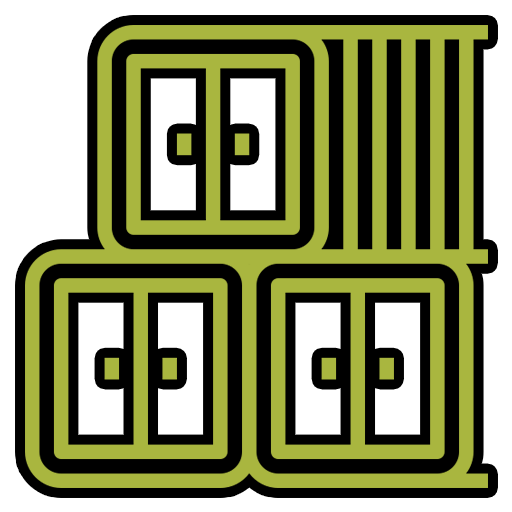
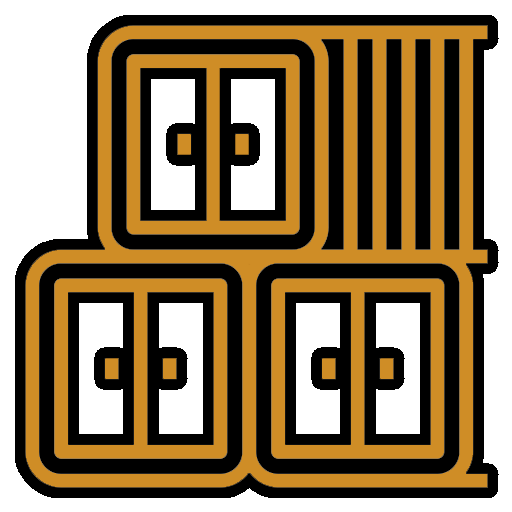
08-07-2023

diff --git a/css/home.css b/css/home.css
@@ -283,7 +283,7 @@ a {
 }
 
 .nav-link:hover {
-    color: #a9b63f !important;
+    color: #ffb03b !important;
 }
 
 .page-button {
@@ -293,7 +293,7 @@ a {
     padding: 10px 18px;
     border-radius: 56px;
     color: #fff;
-    background-color: #a9b63f;
+    background-color: #ffb03b;
     cursor: pointer;
     transition: 0.3s;
 }
@@ -515,7 +515,7 @@ a {
 .left_separator, .right_separator {
     width: 0;
     height: 1px;
-    background-color: #757575;
+    background-color: #ffb03b;
     transition: width 3s;
     transition-timing-function: ease;
 }
@@ -545,7 +545,7 @@ a {
 }
 
 #products {
-    background-image: url(../img/home-bg-img-2.jpg);
+    background-image: url(../img/home-bg-img-4.jpg);
     background-repeat: no-repeat;
     background-size: cover;
     background-attachment: fixed;
@@ -553,7 +553,7 @@ a {
 
 #achievement {
     width: 100%;
-    background-image: url(../img/home-bg-img-3.jpg);
+    background-image: url(../img/home-bg-img-5.jpg);
     background-repeat: no-repeat;
     background-size: cover;
     background-attachment: fixed;
@@ -563,7 +563,7 @@ a {
     font-family: Pacifico;
     font-style: normal;
     text-align: center;
-    color: #f4a261;
+    color: #ffb03b;
     text-shadow: 0 -1px 5px rgba(244, 162, 97, 0.6);
     font-size: 70px;
     font-weight: 400;
@@ -592,14 +592,14 @@ a {
 }
 
 .carousel-indicators .active {
-    background-color: #a9b63f !important;
+    background-color: #ffb03b !important;
     opacity: 0.7 !important;
 }
 
 .carousel-control-next-icon, .carousel-control-prev-icon {
     width: 60px !important;
     height: 60px !important;
-    color: #a9b63f !important;
+    color: #ffb03b !important;
 }
 
 

diff --git a/index.html b/index.html
@@ -243,19 +243,19 @@
             <h1 class="title-image-section">Наші Продукти</h1>
             <div class="products-wrapper">
                 <div class="product">
-                    <img alt="ice-cream" src="img/ice-cream.svg" class="product-image">
+                    <img alt="ice-cream" src="img/ice-cream.png" class="product-image">
                     <span class="product_description">
                   Кондитерські
                   </span>
                 </div>
                 <div class="product">
-                    <img alt="meat" src="img/meat.svg" class="product-image" draggable="false">
+                    <img alt="meat" src="img/meat.png" class="product-image" draggable="false">
                     <span class="product_description">
                   М'ясні
                   </span>
                 </div>
                 <div class="product">
-                    <img alt="milk" src="img/milk.svg" class="product-image" draggable="false">
+                    <img alt="milk" src="img/milk.png" class="product-image" draggable="false">
                     <span class="product_description">
                   Молочні
                   </span>
